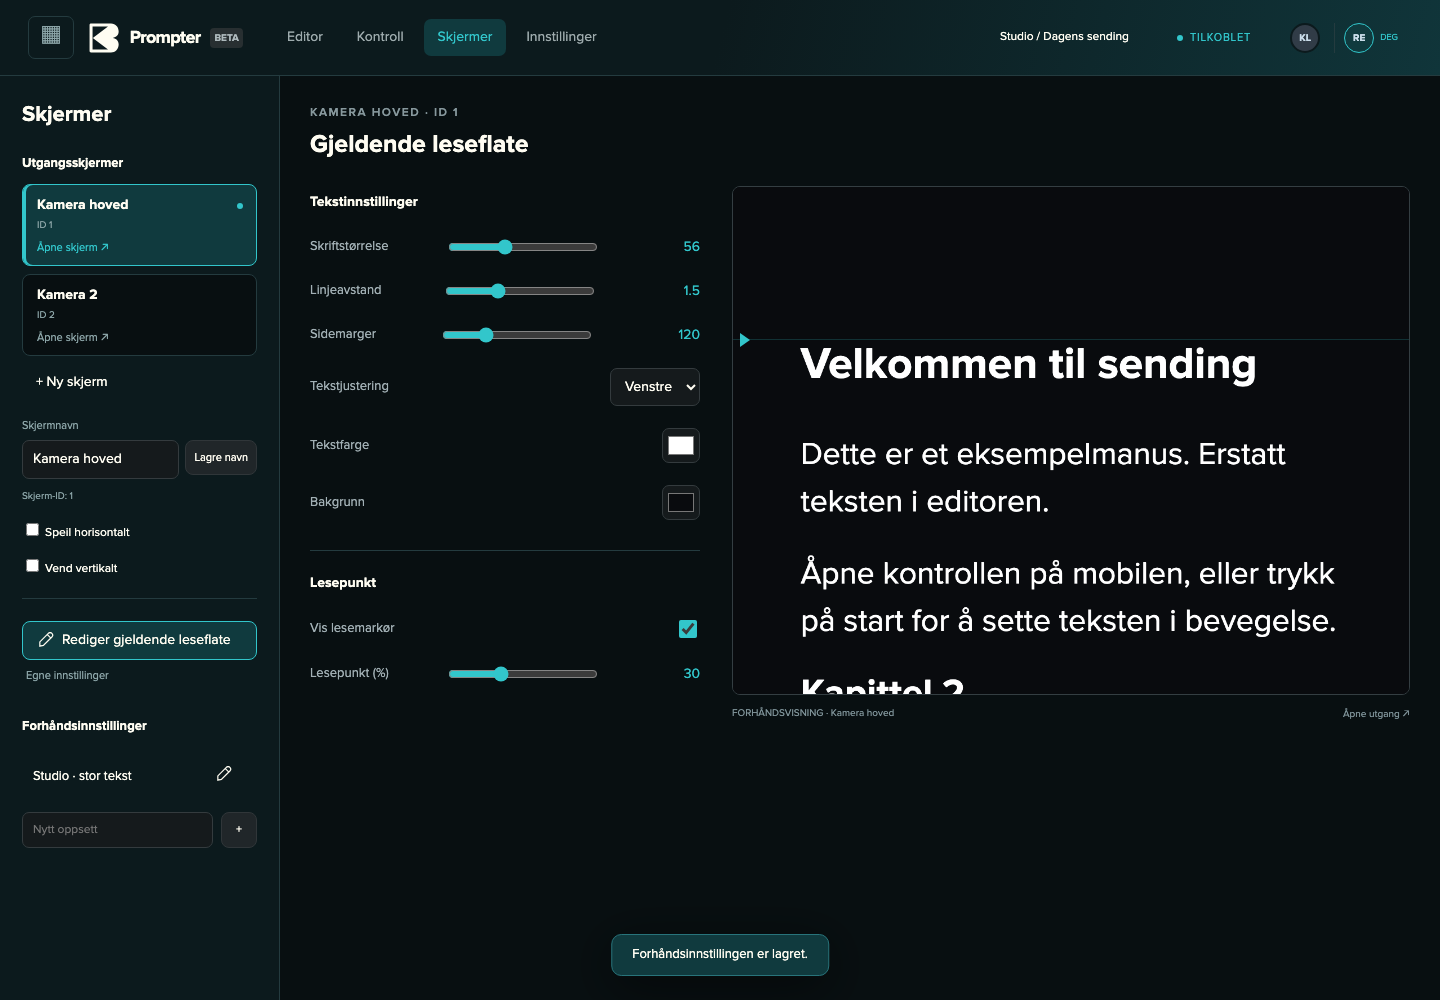
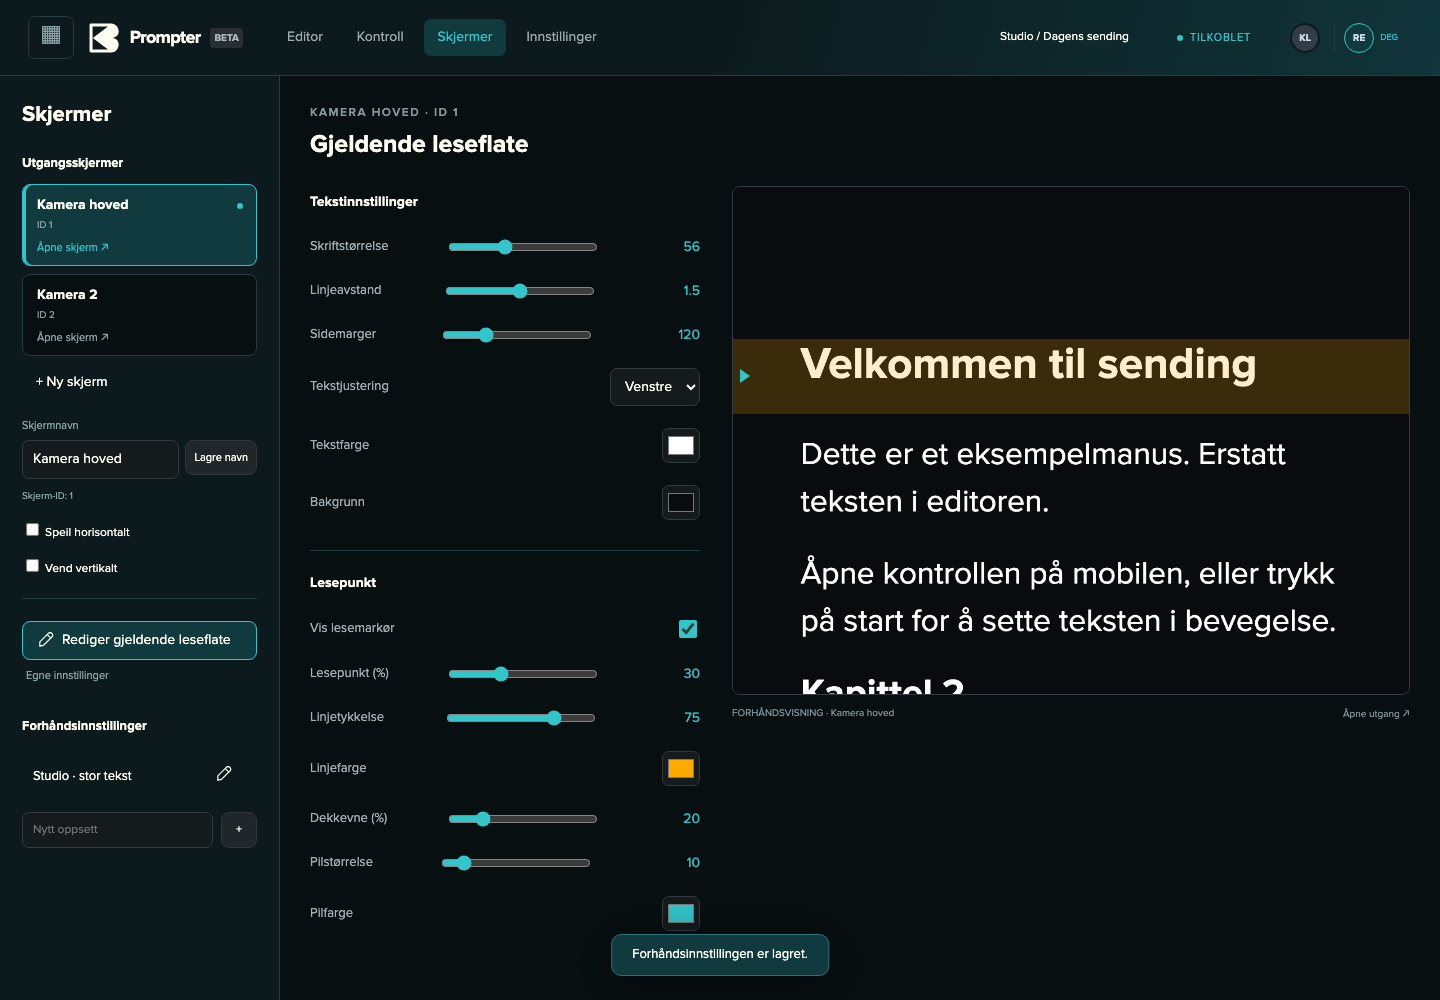
feat: blackout, program standby and adjustable reading guide

diff --git a/public/app.js b/public/app.js
@@ -161,6 +161,7 @@ function connect() {
     if (msg.type === "transport") {
       if (state) {
         state.transport = msg.transport;
+        renderOutputStatus();
         for (const el of $$(".play"))
           el.textContent = state.transport.playing ? "Ⅱ Pause" : "▶ Start";
         $("#hold")?.classList.toggle("held", state.transport.holding);
@@ -243,8 +244,36 @@ function header() {
 function preview() {
   return '<div class="preview-box"><div class="stage-viewport"><div class="stage-transform"><div class="stage"><div class="prompt-content"></div></div><div class="guide"></div></div></div></div>';
 }
+function renderOutputStatus() {
+  if (!state) return;
+  const { p, e, s } = current();
+  for (const button of $$('[data-control="blackout"]')) {
+    button.classList.toggle("active", !!state.transport.blackout);
+    button.setAttribute("aria-pressed", String(!!state.transport.blackout));
+    button.textContent = state.transport.blackout ? "Blackout · På" : "Blackout";
+  }
+  const wrapper = $(".stage-transform");
+  if (!wrapper) return;
+  let card = $(".standby-card", wrapper);
+  if (!card) {
+    card = document.createElement("div");
+    card.className = "standby-card";
+    wrapper.append(card);
+    const black = document.createElement("div");
+    black.className = "blackout-cover";
+    wrapper.append(black);
+  }
+  const key = JSON.stringify([p?.name, e?.name, p?.logo]);
+  if (card.dataset.key !== key) {
+    card.dataset.key = key;
+    card.innerHTML = `${p?.logo ? `<img src="${esc(p.logo)}" alt="">` : ""}<strong>${esc(p?.name || "")}</strong><span>${esc(e?.name || "")}</span>`;
+  }
+  card.hidden = !!s;
+  wrapper.classList.toggle("standby", !s);
+  wrapper.classList.toggle("blacked-out", !!state.transport.blackout);
+}
 function transport() {
-  return `<div class="transport-row"><button data-control="reset" title="Til starten" aria-label="Til starten">↶</button><button class="primary play" data-control="toggle">▶ Start</button><button data-control="next" title="Neste manus" aria-label="Neste manus">↦</button></div><div class="speed-heading"><div><span class="eyebrow">Hastighet</span><div class="speed-value"><span data-speed>60</span><small>px / sek</small></div></div><div class="speed-step"><button data-step="-${CONFIG.speedStep}" aria-label="Saktere">−</button><button data-step="${CONFIG.speedStep}" aria-label="Raskere">+</button></div></div><input id="speed" aria-label="Hastighet" type="range" min="${CONFIG.speedMin}" max="${CONFIG.speedMax}" step="1"><div class="speed-hints"><span>Oppover</span><span>Nedover</span></div><div class="position-line"><span>Posisjon</span><span id="position-label">0 %</span></div><input id="position" aria-label="Posisjon i manus" type="range" min="0" max="1000" step="1"><button class="hold" id="hold">Hold for pause<small>Slipp for å fortsette</small></button>`;
+  return `<button class="blackout-button" data-control="blackout" aria-pressed="false">Blackout</button><div class="transport-row"><button data-control="reset" title="Til starten" aria-label="Til starten">↶</button><button class="primary play" data-control="toggle">▶ Start</button><button data-control="next" title="Neste manus" aria-label="Neste manus">↦</button></div><div class="speed-heading"><div><span class="eyebrow">Hastighet</span><div class="speed-value"><span data-speed contenteditable="true" role="textbox" inputmode="decimal" aria-label="Hastighet, tallverdi">60</span><small>px / sek</small></div></div><div class="speed-step"><button data-step="-${CONFIG.speedStep}" aria-label="Saktere">−</button><button data-step="${CONFIG.speedStep}" aria-label="Raskere">+</button></div></div><input id="speed" aria-label="Hastighet" type="range" min="${CONFIG.speedMin}" max="${CONFIG.speedMax}" step="1"><div class="speed-hints"><span>Oppover</span><span>Nedover</span></div><div class="position-line"><span>Posisjon</span><span id="position-label" contenteditable="true" role="textbox" inputmode="decimal" aria-label="Posisjon, prosent">0 %</span></div><input id="position" aria-label="Posisjon i manus" type="range" min="0" max="1000" step="1"><button class="hold" id="hold">Hold for pause<small>Slipp for å fortsette</small></button>`;
 }
 function build() {
   if (route === "output") {
@@ -273,12 +302,23 @@ function build() {
   bind();
 }
 function rangeField(id, label, min, max, step) {
-  return `<div class="field"><label for="${id}">${label}</label><input id="${id}" type="range" min="${min}" max="${max}" step="${step}" data-setting="${id}"><output for="${id}"></output></div>`;
+  return `<div class="field"><label for="${id}">${label}</label><input id="${id}" type="range" min="${min}" max="${max}" step="${step}" data-setting="${id}"><output for="${id}" contenteditable="true" role="textbox" inputmode="decimal" aria-label="${label}, tallverdi" data-number-setting="${id}"></output></div>`;
 }
 function checkField(id, label) {
   return `<div class="field"><label for="${id}">${label}</label><input id="${id}" type="checkbox" data-setting="${id}"></div>`;
 }
+function guideOptionDisabled(el) {
+  return !!el.closest("#guide-options") && (!state || !visualSettings().guide);
+}
 function updateConnection() {
+  $("#guide-options")?.classList.toggle("options-disabled", !state || !visualSettings().guide);
+
+  for (const el of $$('[data-number-setting], [data-speed], #position-label')) {
+    const enabled = connected && (!state?.lock || state.lock.owner === myId) && (!el.dataset.numberSetting || !displayFieldsLocked()) && !guideOptionDisabled(el);
+    el.contentEditable = String(enabled);
+    el.setAttribute("aria-disabled", String(!enabled));
+  }
+
   for (const el of $$(".connection")) {
     el.classList.toggle("offline", !connected);
     el.innerHTML = `<i class="dot"></i>${connected ? (state?.lock ? "KONTROLL LÅST" : "TILKOBLET") : "KOBLER TIL …"}`;
@@ -296,13 +336,14 @@ function updateConnection() {
   ))
     el.disabled =
       !permitted() ||
-      (el.hasAttribute("data-setting") && displayFieldsLocked());
+      (el.hasAttribute("data-setting") && displayFieldsLocked()) || guideOptionDisabled(el);
   if ($("#editor"))
     $("#editor").contentEditable = String(permitted() && !!editingScript());
 }
 function render() {
   if (!state) return;
   const { p, e, s } = current();
+  renderOutputStatus();
   if ($(".global-context"))
     $(".global-context").textContent =
       [p?.name, e?.name].filter(Boolean).join(" / ") ||
@@ -393,7 +434,7 @@ function render() {
         else el.value = visualSettings()[el.dataset.setting];
       }
       let o = $(`output[for="${el.id}"]`);
-      if (o) o.textContent = visualSettings()[el.dataset.setting];
+      if (o && document.activeElement !== o) o.textContent = visualSettings()[el.dataset.setting];
     }
   if (route === "settings") {
     renderSystemSettings();
@@ -415,7 +456,7 @@ function render() {
   updateConnection();
   updateLayout();
   reportLayout();
-  for (const el of $$("[data-speed]")) el.textContent = state.transport.speed;
+  for (const el of $$("[data-speed]")) if (document.activeElement !== el) el.textContent = state.transport.speed;
   for (const el of $$(".play"))
     el.textContent = state.transport.playing ? "Ⅱ Pause" : "▶ Start";
   if ($("#speed") && document.activeElement !== $("#speed"))
@@ -425,7 +466,7 @@ function render() {
 function scriptSettingsPanel() {
   const numeric = [
     ["fontSize", "Skriftstørrelse", 20, 120, 1],
-    ["lineHeight", "Linjeavstand", 1, 2.5, 0.1],
+    ["lineHeight", "Linjeavstand", 0.5, 2.5, 0.05],
     ["margin", "Sidemarger", 20, 400, 10],
     ["guidePosition", "Lesepunkt (%)", 5, 80, 1],
   ];
@@ -573,6 +614,12 @@ function updateLayout() {
       `scale(${route === "output" && outputScreen()?.mirror ? -1 : 1},${route === "output" && outputScreen()?.flip ? -1 : 1})`;
     guide.style.display = visualSettings().guide ? "" : "none";
     guide.style.top = visualSettings().guidePosition + "%";
+    guide.style.setProperty("--guide-thickness", (visualSettings().guideThickness ?? 1) + "px");
+    guide.style.setProperty("--guide-size", (visualSettings().guideSize ?? 10) + "px");
+    const lineColor = visualSettings().guideLineColor || "#32c6cb";
+    const channels = [1, 3, 5].map(i => parseInt(lineColor.slice(i, i + 2), 16));
+    guide.style.setProperty("--guide-line-color", `rgba(${channels.join(",")}, ${(visualSettings().guideOpacity ?? 20) / 100})`);
+    guide.style.setProperty("--guide-color", visualSettings().guideColor || "#32c6cb");
   }
   maxPosition = Math.max(0, ruler.getBoundingClientRect().height);
   buildDisplayPositionMap();
@@ -613,7 +660,7 @@ function animate() {
     }
     if ($("#position") && document.activeElement !== $("#position"))
       $("#position").value = maxPosition ? (p / maxPosition) * 1000 : 0;
-    if ($("#position-label"))
+    if ($("#position-label") && document.activeElement !== $("#position-label"))
       $("#position-label").textContent =
         `${Math.round(maxPosition ? (p / maxPosition) * 100 : 0)} %`;
   }
@@ -729,6 +776,29 @@ function format(cmd, value) {
   markDirty();
 }
 function bind() {
+  for (const el of $$('[data-number-setting], [data-speed], #position-label')) {
+    el.addEventListener("keydown", event => {
+      if (event.key === "Enter") { event.preventDefault(); el.blur(); }
+      if (event.key === "Escape") { event.preventDefault(); el.dataset.cancel = "1"; el.blur(); }
+    });
+    el.addEventListener("blur", () => {
+      const value = Number(el.textContent.replace("%", "").replace(",", ".").trim());
+      const allowed = connected && (!state.lock || state.lock.owner === myId);
+      if (!el.dataset.cancel && allowed && Number.isFinite(value)) {
+        if (el.dataset.numberSetting && !displayFieldsLocked() && !guideOptionDisabled(el)) {
+          const slider = document.getElementById(el.dataset.numberSetting);
+          if (value >= Number(slider.min) && value <= Number(slider.max)) {
+            slider.value = value;
+            slider.dispatchEvent(new Event("input"));
+          } else toast("Verdien må være mellom " + slider.min + " og " + slider.max);
+        } else if (el.hasAttribute("data-speed") && Math.abs(value) <= 500) command("speed", value);
+        else if (el.id === "position-label" && value >= 0 && value <= 100) command("seek", maxPosition * value / 100);
+      }
+      delete el.dataset.cancel;
+      render();
+    });
+  }
+
   document.addEventListener("selectionchange", rememberRange);
   document.addEventListener("click", (event) => {
     const b = event.target.closest("button");

diff --git a/public/display.js b/public/display.js
@@ -37,7 +37,7 @@ function insertionSlot(beforeId, index) {
   return `<div class="insert-slot"><button data-insert-before="${beforeId}" aria-label="Sett inn manus på plass ${index + 1}"><span></span><b>+</b><span></span></button></div>`;
 }
 function displayWorkspace() {
-  return `<main class="display-workspace"><aside class="display-sidebar"><h1>${esc(CONFIG.displayTitle)}</h1><h2>Utgangsskjermer</h2><div id="screen-choices"></div><button id="add-screen" class="flat">+ Ny skjerm</button><div id="screen-list"><form id="screen-rename"><label for="screen-name-edit">Skjermnavn</label><div class="screen-name-row"><input id="screen-name-edit" maxlength="120" required><button type="submit">Lagre navn</button></div></form><small id="screen-identity"></small><label class="screen-check"><input type="checkbox" data-axis="mirror"> Speil horisontalt</label><label class="screen-check"><input type="checkbox" data-axis="flip"> Vend vertikalt</label><button id="delete-selected-screen" class="flat trash" aria-label="Slett skjerm">${trashIcon()}</button></div><hr><button id="edit-live-layout" class="layout-choice">${penIcon()} Rediger gjeldende leseflate</button><div id="screen-preset-status"></div><h2>Forhåndsinnstillinger</h2><div id="preset-list"></div><div class="preset-save"><input id="preset-name" placeholder="Nytt oppsett" aria-label="Navn på forhåndsinnstilling"><button id="save-preset" title="Lagre som ny forhåndsinnstilling">+</button></div></aside><section class="display-editor"><div class="display-editor-heading"><span id="editing-screen-name" class="eyebrow"></span><h2 id="layout-title">Gjeldende leseflate</h2><div id="layout-link-banner" hidden></div></div><div id="preset-edit-actions" hidden><label for="preset-edit-name">Navn</label><input id="preset-edit-name"><button id="apply-preset" class="primary">Bruk på prompteren</button><button id="delete-preset" class="flat trash" aria-label="Slett forhåndsinnstilling">${trashIcon()}</button></div><div class="display-fields"><section id="screen-layout-fields"><h3>Tekstinnstillinger</h3>${rangeField("fontSize", "Skriftstørrelse", 20, 120, 1)}${rangeField("lineHeight", "Linjeavstand", 1, 2.5, 0.1)}${rangeField("margin", "Sidemarger", 20, 400, 10)}<div class="field"><label for="align">Tekstjustering</label><select id="align" data-setting="align"><option value="left">Venstre</option><option value="center">Midtstilt</option><option value="right">Høyre</option></select></div><div class="field"><label for="color">Tekstfarge</label><input type="color" id="color" data-setting="color"></div><div class="field"><label for="background">Bakgrunn</label><input type="color" id="background" data-setting="background"></div><h3 class="reading-heading">Lesepunkt</h3>${checkField("guide", "Vis lesemarkør")}${rangeField("guidePosition", "Lesepunkt (%)", 5, 80, 1)}</section><div class="settings-preview">${preview()}<div class="preview-label"><span id="preview-scope">LIVE</span><a id="selected-output-link" target="_blank">Åpne utgang ↗</a></div></div></div></section></main>`;
+  return `<main class="display-workspace"><aside class="display-sidebar"><h1>${esc(CONFIG.displayTitle)}</h1><h2>Utgangsskjermer</h2><div id="screen-choices"></div><button id="add-screen" class="flat">+ Ny skjerm</button><div id="screen-list"><form id="screen-rename"><label for="screen-name-edit">Skjermnavn</label><div class="screen-name-row"><input id="screen-name-edit" maxlength="120" required><button type="submit">Lagre navn</button></div></form><small id="screen-identity"></small><label class="screen-check"><input type="checkbox" data-axis="mirror"> Speil horisontalt</label><label class="screen-check"><input type="checkbox" data-axis="flip"> Vend vertikalt</label><button id="delete-selected-screen" class="flat trash" aria-label="Slett skjerm">${trashIcon()}</button></div><hr><button id="edit-live-layout" class="layout-choice">${penIcon()} Rediger gjeldende leseflate</button><div id="screen-preset-status"></div><h2>Forhåndsinnstillinger</h2><div id="preset-list"></div><div class="preset-save"><input id="preset-name" placeholder="Nytt oppsett" aria-label="Navn på forhåndsinnstilling"><button id="save-preset" title="Lagre som ny forhåndsinnstilling">+</button></div></aside><section class="display-editor"><div class="display-editor-heading"><span id="editing-screen-name" class="eyebrow"></span><h2 id="layout-title">Gjeldende leseflate</h2><div id="layout-link-banner" hidden></div></div><div id="preset-edit-actions" hidden><label for="preset-edit-name">Navn</label><input id="preset-edit-name"><button id="apply-preset" class="primary">Bruk på prompteren</button><button id="delete-preset" class="flat trash" aria-label="Slett forhåndsinnstilling">${trashIcon()}</button></div><div class="display-fields"><section id="screen-layout-fields"><h3>Tekstinnstillinger</h3>${rangeField("fontSize", "Skriftstørrelse", 20, 120, 1)}${rangeField("lineHeight", "Linjeavstand", 0.5, 2.5, 0.05)}${rangeField("margin", "Sidemarger", 20, 400, 10)}<div class="field"><label for="align">Tekstjustering</label><select id="align" data-setting="align"><option value="left">Venstre</option><option value="center">Midtstilt</option><option value="right">Høyre</option></select></div><div class="field"><label for="color">Tekstfarge</label><input type="color" id="color" data-setting="color"></div><div class="field"><label for="background">Bakgrunn</label><input type="color" id="background" data-setting="background"></div><h3 class="reading-heading">Lesepunkt</h3>${checkField("guide", "Vis lesemarkør")}<div id="guide-options">${rangeField("guidePosition", "Lesepunkt (%)", 5, 80, 1)}${rangeField("guideThickness", "Linjetykkelse", 0, 100, 1)}<div class="field"><label for="guideLineColor">Linjefarge</label><input type="color" id="guideLineColor" data-setting="guideLineColor"></div>${rangeField("guideOpacity", "Dekkevne (%)", 0, 100, 1)}${rangeField("guideSize", "Pilstørrelse", 4, 60, 1)}<div class="field"><label for="guideColor">Pilfarge</label><input type="color" id="guideColor" data-setting="guideColor"></div></div></section><div class="settings-preview">${preview()}<div class="preview-label"><span id="preview-scope">LIVE</span><a id="selected-output-link" target="_blank">Åpne utgang ↗</a></div></div></div></section></main>`;
 }
 function renderDisplayWorkspace() {
   if (

diff --git a/public/style.css b/public/style.css
@@ -588,16 +588,16 @@ p {
   left: 0;
   right: 0;
   pointer-events: none;
-  border-top: 1px solid #32c6cb33;
+  border-top: var(--guide-thickness, 1px) solid var(--guide-line-color, #32c6cb33);
 }
 .guide:before {
   content: "";
   position: absolute;
   left: 1%;
-  top: -7px;
-  border-left: 10px solid var(--accent);
-  border-top: 7px solid transparent;
-  border-bottom: 7px solid transparent;
+  top: calc(var(--guide-thickness, 1px) * -0.5 - var(--guide-size, 10px) * 0.7);
+  border-left: var(--guide-size, 10px) solid var(--guide-color, var(--accent));
+  border-top: calc(var(--guide-size, 10px) * 0.7) solid transparent;
+  border-bottom: calc(var(--guide-size, 10px) * 0.7) solid transparent;
 }
 .output {
   position: fixed;
@@ -2259,7 +2259,7 @@ dialog select {
   justify-content: flex-start;
 }
 .script-card.on-air {
-  border-color: #d7696080 !important;
+  border-color: #e34f54 !important;
   box-shadow: 0 0 0 1px #d7696022;
 }
 .script-card.selected.on-air {
@@ -2892,3 +2892,34 @@ dialog select {
   display: block;
   margin-bottom: 10px;
 }
+
+/* Output state overlays also appear in the readable operator previews. */
+.blackout-button { width: 100%; margin: 12px 0; }
+.blackout-button.active { background: #b92f39; border-color: #e34f54; color: white; }
+.standby-card { position: absolute; inset: 0; display: flex; flex-direction: column; align-items: center; justify-content: center; gap: 3%; padding: 8%; background: #000; color: #fff; text-align: center; z-index: 2; }
+.standby-card[hidden] { display: none; }
+.standby-card img { max-width: 55%; max-height: 35%; object-fit: contain; }
+.standby-card strong { font-size: clamp(20px, 4vw, 64px); }
+.standby-card span { font-size: clamp(16px, 3vw, 48px); }
+.standby .guide { visibility: hidden; }
+.blackout-cover { display: none; position: absolute; inset: 0; background: #000; z-index: 10; }
+.blacked-out .blackout-cover { display: block; }
+
+.field input.switch[type="checkbox"] {
+  appearance: none; -webkit-appearance: none; position: relative;
+  width: 46px; height: 28px; min-width: 46px; padding: 0;
+  border: 0; border-radius: 20px; background: #445054;
+  cursor: pointer; transition: background 150ms;
+}
+.field input.switch::before {
+  content: ""; position: absolute; width: 22px; height: 22px;
+  left: 3px; top: 3px; border-radius: 50%; background: #fff;
+  box-shadow: 0 1px 3px #0005; transition: transform 150ms;
+}
+.field input.switch:checked { background: var(--accent); }
+.field input.switch:checked::before { transform: translateX(18px); }
+.field input.switch:focus-visible { outline: 2px solid white; outline-offset: 3px; }
+.options-disabled { opacity: .35; }
+.options-disabled input, .options-disabled output { cursor: not-allowed; }
+
+.rundown-pane .script-card.on-air, .rundown-pane .script-card.selected.on-air { border: 3px solid #e34f54; }

diff --git a/public/settings.js b/public/settings.js
@@ -18,6 +18,7 @@ function settingsWorkspace() {
     ["next", "—", "Neste manus"],
     ["previous", "—", "Forrige manus"],
     ["nextChapter", "—", "Neste kapittel"],
+    ["blackout", "1 / 0", "Svart utgang på / av (uten verdi: veksle)"],
     ["hold", "—", "Hold pause"],
     ["release", "—", "Slipp pause"],
     ["state", "—", "Transportstatus"],

diff --git a/README.md b/README.md
@@ -137,3 +137,9 @@ npm run dist:win
 The app is for a trusted LAN and has no user authentication. Control locks coordinate operators; they are not an access-control/security boundary. Do not expose the server to the public internet.
 
 Future online project editing belongs in a remote project repository adapter. The launcher, project cache, playback engine, OSC and client synchronization stay local and continue operating without that service. No cloud integration is implemented in this version.
+
+### Blackout og startvisning
+
+Åpning av et program viser prosjektlogo, prosjektnavn og programnavn til et manus lastes via Last inn eller OSC. Blackout i editoren og mobilkontrollen gjør alle utganger svarte; avspillingen fortsetter med samme posisjon og hastighet. OSC: `/prompter/blackout` med 1 for på, 0 for av, eller uten verdi for å veksle.
+
+Lesepunkt under Skjermer har linjetykkelse (0 skjuler linjen), pilfarge og pilstørrelse. Linjeavstand kan settes fra 0,5 til 2,5; under 1 gir tettere tekst og kan gi overlapp.

diff --git a/CHANGELOG.md b/CHANGELOG.md
@@ -1,3 +1,13 @@
+# 0.6.0
+
+- Blackout i editor og mobilkontroll, med OSC /prompter/blackout (1/0). Avspilling fortsetter bak svart utgang.
+- Åpning av program viser prosjektlogo og titler til et manus lastes.
+- Direkte tallinntasting i eksisterende tallvisninger ved skyveknappene.
+- Sentrert pil, linjetykkelse opptil 100 px, egen linjefarge og alpha.
+- Av/på-bryter for lesemarkør, med deaktiverte innstillinger når av.
+- Tykkere rød ramme rundt LIVE-manus.
+- Justerbar linjetykkelse, pilfarge og pilstørrelse. Linjeavstand ned til 0,5.
+
 # Changelog
 
 ## 0.5.0
